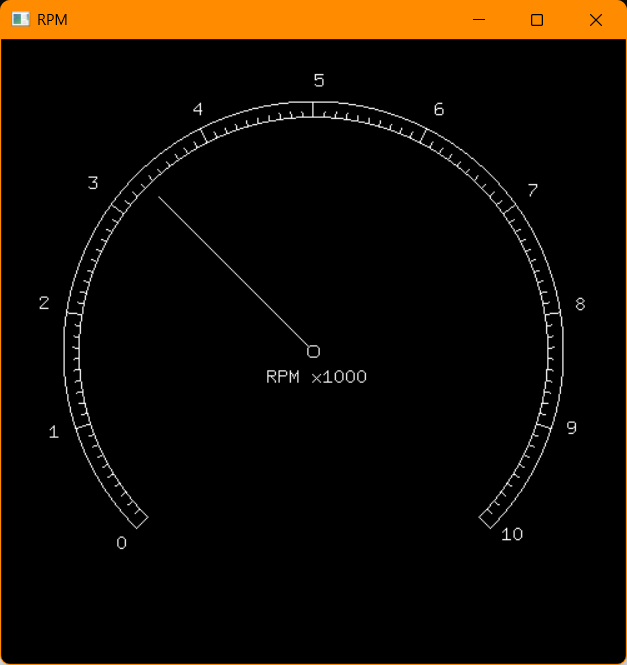
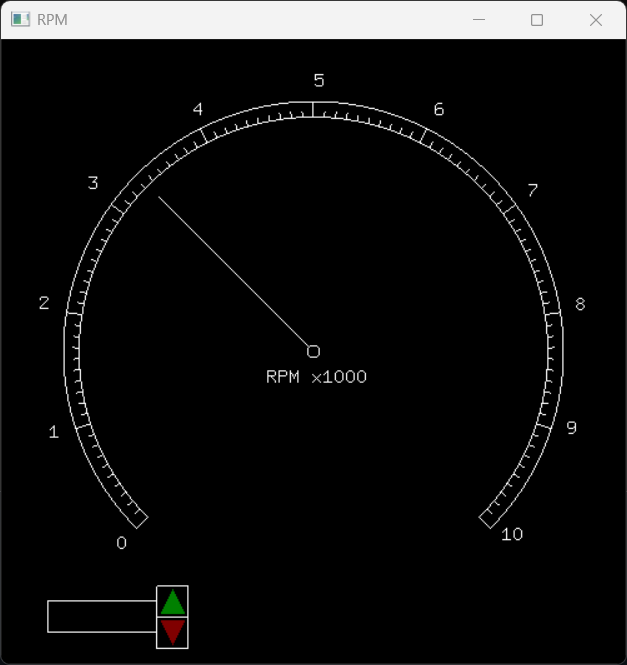
Minor updates: 1) Throttle up/down button triangle drawn. 2) Updated screenshot

Changed region(s): [[0.0, 0.0, 1.0, 0.0602], [0.0, 0.8722, 1.0, 1.0], [0.0606, 0.9023, 0.0909, 0.9624]]

diff --git a/main.cpp b/main.cpp
@@ -160,7 +160,7 @@ void DrawThrottleControl() {
   glVertex2f(left, bottom);
   glEnd();
 
-  // Throttle high/low buttons - clockwise vertices
+  //< Throttle high/low buttons - clockwise vertices
   glBegin(GL_LINE_LOOP);
   float btn_top = top + 0.05;
   float btn_bottom = bottom - 0.05;
@@ -176,7 +176,23 @@ void DrawThrottleControl() {
   glVertex2f(btn_left, btn_mid);
   glVertex2f(btn_right, btn_mid);
   glEnd();
-
+  // Up and down triangle in the throttle buttons  
+  float btn_width = fabs(btn_left - btn_right);
+  float margin = 0.01;
+  glBegin(GL_TRIANGLES);
+  glColor3f(0, 0.5, 0);
+  glVertex2f((btn_left + btn_width / 2), btn_top - margin); // x, y of up botton top vertex.
+  glVertex2f(btn_right - margin, btn_mid + margin);         // x, y of next clock wise vertices, here on.
+  glVertex2f(btn_left + margin, btn_mid + margin);
+  glEnd();
+  // same for down btn 
+  glBegin(GL_TRIANGLES);
+  glColor3f(0.5, 0, 0);
+  glVertex2f((btn_left + btn_width / 2), btn_bottom + margin); // x, y of down botton bottom vertex.
+  glVertex2f(btn_left + margin, btn_mid - margin);             // x, y of next clock wise vertices, here on.
+  glVertex2f(btn_right - margin, btn_mid - margin);            
+  glColor3f(1,1,1);
+  glEnd();
 }
 
 void DrawDial() {
